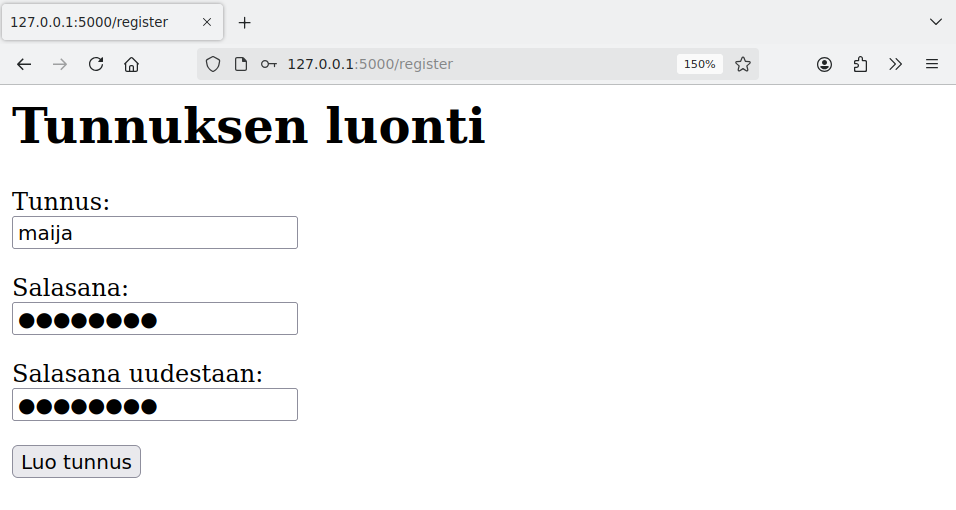
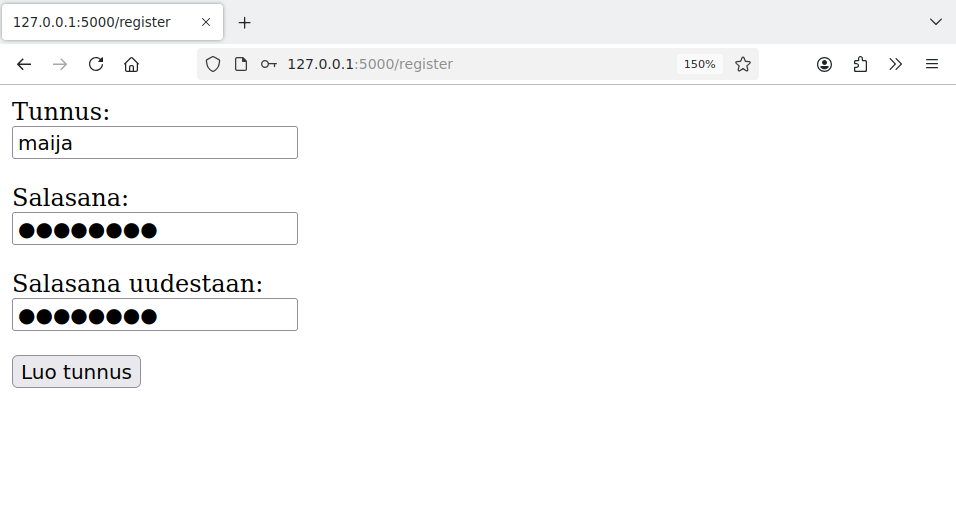
Lisää sisältöä

diff --git a/_material/03.md b/_material/03.md
@@ -3,6 +3,8 @@ title: 3. Käyttäjän tunnistaminen
 slug: osa3
 sections:
 - Tunnuksen luonti
+- Istunnon käyttäminen
+- Kirjautumisen toteutus
 ---
 
 <style>
@@ -18,9 +20,9 @@ img {
 
 # 3. Käyttäjän tunnistaminen
 
-Monissa web-sovelluksissa on tarvetta tunnistaa sovelluksen käyttäjä. Tavallinen ratkaisu on vaatia halutuissa sovelluksen toiminnoissa, että käyttäjä kirjautuu sisään antamalla tunnuksen ja salasanan.
+Monissa web-sovelluksissa on tarvetta tunnistaa sovelluksen käyttäjä. Tavallinen ratkaisu on, että käyttäjä pääsee käyttämään tiettyjä sovelluksen toimintoja, kun hän kirjautuu sisään antamalla tunnuksen ja salasanan.
 
-Tässä osassa käymme läpi, miten voimme toteuttaa sovelluksen niin, että käyttäjä voi luoda tunnuksen ja salasanan sovellukseen ja kirjautua myöhemmin niiden avulla sisään sovellukseen.
+Tutustumme tässä osassa käyttäjien rekisteröinnin ja kirjautumisen toteuttamiseen.
 
 ## Tunnuksen luonti
 
@@ -30,13 +32,13 @@ Luodaan käyttäjiä varten sovelluksen seuraava taulu `users`:
 CREATE TABLE users (
     id INTEGER PRIMARY KEY,
     username TEXT UNIQUE,
-    password TEXT
+    password_hash TEXT
 )
 ```
 
-Taulussa sarakkeet `username` ja `password` sisältävät käyttäjän tunnuksen ja salasanan. Sarakkeessa `username` on lisäehto `UNIQUE`, mikä tarkoittaa, että kahdella käyttäjällä ei voi olla samaa tunnusta.
+Sarake `username` sisältää käyttäjän tunnuksen. Sarakkeessa on lisäehto `UNIQUE`, mikä tarkoittaa, että kahdella käyttäjällä ei voi olla samaa tunnusta.
 
-Käyttäjän salasanan tallentamineen sellaisenaan tietokantaan ei olisi hyvä ratkaisu. Tällöin jos joku pääsisi käsiksi tietokannan sisältöön, hän saisi heti selville käyttäjien salasanat. Parempi ratkaisu on tallentaa salasanat tietokantaan hash-muodossa, jolloin niiden selvittäminen on vaikeampaa.
+Sarake `password_hash` sisältää salasanan hash-arvon. Salasanojen tallentamineen sellaisenaan tietokantaan ei olisi hyvä ratkaisu. Tällöin jos joku pääsisi käsiksi tietokannan sisältöön, hän saisi heti selville käyttäjien salasanat. Parempi ratkaisu on tallentaa salasanat tietokantaan hash-muodossa niin, että tietokannan sisällöstä ei ole helppoa selvittää salasanoja.
 
 Seuraavassa sovelluksessa käyttäjä pystyy luomaan sovellukseen tunnuksen, joka tallennetaan tietokantaan:
 
@@ -64,7 +66,7 @@ def create():
     password_hash = generate_password_hash(password1)
 
     try:
-        db.execute("INSERT INTO users (username, password) VALUES (?, ?)",
+        db.execute("INSERT INTO users (username, password_hash) VALUES (?, ?)",
                    [username, password_hash])
     except:
         return "VIRHE: tunnus on jo varattu"
@@ -75,7 +77,6 @@ def create():
 {: .code-title }
 register.html
 ```jinja
-<h1>Tunnuksen luonti</h2>
 <form action="/create" method="post">
 <p> Tunnus: <br>
 <input type="text" name="username">
@@ -96,7 +97,7 @@ Tunnuksen luonti voi näyttää seuraavalta:
 
 Lomakkeessa käyttäjän tulee kirjoittaa salasana kahdesti, mikä vähentää väärin kirjoitetun salasanan riskiä. Jos käyttäjä antaa kaksi eri salasanaa, sovellus antaa tästä virheilmoituksen.
 
-Koodissa käytetään salasanan hash-arvon luomiseen funktiota `generate_password_hash`, joka kuuluu Flaskin mukana tulevaan Werkzeug-kirjastoon. Tällä tavalla saatu hash-arvo tallennetaan tietokantaan.
+Koodissa käytetään salasanan hash-arvon luomiseen funktiota `generate_password_hash`, joka kuuluu Flaskin mukana tulevaan Werkzeug-kirjastoon. Tämä on turvallinen tapa muodostaa salasanaa vastaava hash-arvo. Tällä tavalla saatu hash-arvo tallennetaan tietokantaan.
 
 Voimme katsoa tietokannasta, miltä salasanan hash-arvo näyttää:
 
@@ -105,22 +106,25 @@ sqlite> SELECT * FROM users;
 1|maija|scrypt:32768:8:1$dZXAZyabb4YyxUnu$aa28f00271ce049f6e59773bee70b4555b3d671c63dcbf9ec3e53c467196df1841f1f232aaf9b05788e73d5692e48707b2112b29a44cd3547cb917701b17fb91
 ```
 
-Tästä näkee, että salasana on tallennettu satunnaiselta näyttävänä merkkijonona. Funktio `generate_password_hash` on toteutettu niin, että salasanan palauttaminen hash-arvon perusteella on vaikeaa.
+Tästä näkee, että salasana on tallennettu satunnaiselta näyttävänä merkkijonona. Funktio `generate_password_hash` on toteutettu niin, että salasanan selvittäminen hash-arvon perusteella on vaikeaa.
 
 Koodi hyödyntää sarakkeessa `username` olevaa `UNIQUE`-ehtoa. Jos käyttäjä koettaa luoda tunnuksen, joka on jo olemassa, tietokanta estää komennon `INSERT` suorittamisen. Koodi tunnistaa tämän tilanteen `try`-rakenteen avulla ja näyttää asiaan liittyvän virheilmoituksen.
 
 ## Istunnon käyttäminen
 
-Flask toteuttaa istunnon `session`-oliona, jonka tiedot tallennetaan selaimelle lähetettävään _evästeeseen_ (_cookie_). Istuntoa voidaan käyttää samaan tapaan kuin sanakirjaa Pythonissa. Seuraava koodi antaa esimerkin asiasta:
+Kun käyttäjä kirjautuu sisään sovellukseen, tieto kirjautumisesta tulisi säilyä sovelluksen eri sivuilla. Tavallinen tapa toteuttaa tämä on käyttää istuntoa, joka on toteutettu Flaskissa `session`-oliona.
+
+Seuraava koodi näyttää esimerkin istunnon käyttämisestä:
 
 {: .code-title }
 app.py
 ```python
 from flask import Flask
 from flask import session
+import config
 
 app = Flask(__name__)
-app.secret_key = "change_this_later"
+app.secret_key = config.secret_key
 
 @app.route("/page1")
 def page1():
@@ -132,7 +136,28 @@ def page2():
     return "Tieto istunnosta: " + session["test"]
 ```
 
-Istunnon käyttäminen vaatii, että sovelluksessa on määritelty salainen avain (`app.secret_key`). Yllä olevassa koodissa on testailua varten väliaikainen salainen avain, jota ei tule käyttää todellisessa sovelluksessa. Palaamme myöhemmin tarkemmin tähän asiaan.
+Istunnon käyttäminen vaatii, että sovelluksessa on määritelty salainen avain (`app.secret_key`). Salaisen avaimen avulla sovellus tallentaa istuntoon liittyvät tiedot turvallisesti käyttäjän selaimeen evästeeseen. Salaisen avaimen tulee olla sovelluksen lähdekoodin ulkopuolella. Tässä asia on ratkaistu niin, että avain on erillisessä tiedostossa `config.py`, joka ei ole julkisesti saatavilla:
+
+{: .code-title }
+config.py
+```python
+secret_key = "18fd24bf6a2ad4dac04a33963db1c42f"
+```
+
+Yllä olevassa tiedostossa oleva avain on esimerkki, eikä sinun ei tule käyttää tätä avainta omassa sovelluksessasi vaan luoda oma salainen avain. Oman salaisen avaimen voi luoda vaikkapa Python-tulkin avulla. Esimerkiksi moduulin `secrets` funktio `token_hex` antaa halutun määrän satunnaisia tavuja:
+
+```console?lang=python&prompt=>>>
+$ python3
+>>> import secrets
+>>> secrets.token_hex(16)
+'39e5b8dd1de7afdc786df2b0cdf7a8f1'
+>>> secrets.token_hex(16)
+'ce22573dcdf9326527536f682ffa3e1c'
+>>> secrets.token_hex(16)
+'4125543709214f084fb171fa541a7ff3'
+```
+
+Voit luoda salaisen avaimen tällä tavalla ja tallentaa sen omaan tiedostoosi `config.py`.
 
 Sovelluksen ideana on, että ensimmäinen sivu asettaa istuntoon muuttujan `test` ja toinen sivu puolestaan näyttää muuttujan sisällön. Tästä näkee, miten tieto säilyy tallessa sivulta toiselle.
 
@@ -140,18 +165,21 @@ Sovelluksen ideana on, että ensimmäinen sivu asettaa istuntoon muuttujan `test
 
 ![](../img/istunto2.png)
 
-
 ### Kirjautumisen toteutus
 
-Seuraava sovellus antaa näytteen kirjautumisen toteuttamisesta:
+Nyt meillä on tarvittavat työkalut, joiden avulla voimme toteuttaa kirjautumisen sovellukseen. Seuraava koodi olettaa, että tietokannassa on tämän osan alussa määritelty taulu `users`. Sovellukseen pystyvät kirjautumaan sisään käyttäjät, jotka ovat luoneet tunnuksen.
 
+{: .code-title }
+app.py
 ```python
 from flask import Flask
 from flask import redirect, render_template, request, session
-from os import getenv
+from werkzeug.security import check_password_hash
+import db
+import config
 
 app = Flask(__name__)
-app.secret_key = getenv("SECRET_KEY")
+app.secret_key = config.secret_key
 
 @app.route("/")
 def index():
@@ -161,9 +189,14 @@ def index():
 def login():
     username = request.form["username"]
     password = request.form["password"]
-    # TODO: check username and password
-    session["username"] = username
-    return redirect("/")
+    
+    password_hash = db.query_one("SELECT password_hash FROM users WHERE username = ?", [username])
+
+    if check_password_hash(password_hash, password):
+        session["username"] = username
+        return redirect("/")
+    else:
+        return "VIRHE: väärä tunnus tai salasana"
 
 @app.route("/logout")
 def logout():
@@ -171,8 +204,10 @@ def logout():
     return redirect("/")
 ```
 
-Sovellus käyttää seuraavaa sivupohjaa `index.html`, joka joko näyttää kirjautumislomakkeen tai kertoo, että käyttäjä on sisällä:
+Sovellus käyttää seuraavaa sivupohjaa, joka joko näyttää kirjautumislomakkeen tai kertoo, että käyttäjä on sisällä:
 
+{: .code-title }
+index.html
 ```jinja
 {% raw %}{% if session.username %}
 <p>Olet kirjautunut nimellä {{ session.username }}</p>
@@ -188,47 +223,11 @@ Sovellus käyttää seuraavaa sivupohjaa `index.html`, joka joko näyttää kirj
 {% endif %}{% endraw %}
 ```
 
+Kun käyttäjä syöttää lomakkeeseen tunnuksen ja salasanan, koodi hakee tietokannasta tunnusta vastaavan salasanan hash-arvon. Tämän jälkeen koodi tarkastaa funktiolla `check_password_hash`, onko salasana oikea. Tämän jälkeen asetetaan istuntoon muuttuja `username`, joka kertoo käyttäjän tunnuksen.
+
 Sovelluksen käyttäminen voi näyttää tältä:
 
-<img class="screenshot" src="../assets/osa-2/login1.png">
+![](../img/login1.png)
 
-<img class="screenshot" src="../assets/osa-2/login2.png">
+![](../img/login2.png)
 
-Katsotaan nyt tarkemmin sovelluksen osia: 
-
-```python
-app.secret_key = getenv("SECRET_KEY")
-```
-
-Tällä rivillä sovellus hakee salaisen avaimen ympäristömuuttujasta `SECRET_KEY`. Istuntoa ei ole mahdollista käyttää ilman salaista avainta.
-
-```jinja
-{% raw %}{% if session.username %}
-<p>Olet kirjautunut nimellä {{ session.username }}</p>
-<a href="/logout">Kirjaudu ulos</a>
-{% else %}{% endraw %}
-```
-
-Sivupohjassa `session`-olioon pääsee käsiksi yllä olevalla syntaksilla. Jos `username` on asetettu, käyttäjä näkee tunnuksensa ja linkin, josta painamalla voi kirjautua ulos. Muuten käyttäjä näkee lomakkeen, jonka avulla voi kirjautua sisään.
-
-
-```python
-@app.route("/login",methods=["POST"])
-def login():
-    username = request.form["username"]
-    password = request.form["password"]
-    # TODO: check username and password
-    session["username"] = username
-    return redirect("/")
-```
-
-Tämä funktio käsittelee kirjautumislomakkeen. Tällä hetkellä funktiosta puuttuu vielä osa (TODO-kohta), joka varmistaa, että käyttäjä antaa oikean tunnuksen ja salasanan. Niinpä sovellus hyväksyy minkä tahansa tunnuksen ja salasanan.
-
-```python
-@app.route("/logout")
-def logout():
-    del session["username"]
-    return redirect("/")
-```
-
-Tämä funktio kirjaa käyttäjän ulos poistamalla `session`-rakenteesta avaimen `username`.

diff --git a/_material/02.md b/_material/02.md
@@ -211,14 +211,17 @@ def query(sql, params=[]):
     
 def query_one(sql, params=[]):
     result = query(sql, params)
-    return result[0]
+    if len(result) == 1:
+        return result[0][0]
+    else:
+        return None
 ```
 
 Funktio `get_connection` muodostaa ja palauttaa yhteyden tietokantaan. Tämän funktion ansiosta tietokantatiedoston nimi riittää kirjoittaa kerran koodissa.
 
 Funktio `execute` on tarkoitettu suorittamaan komento, joka muuttaa tietokantaa (kuten `INSERT`, `UPDATE` tai `DELETE`). Funktio kutsuu metodia `commit`, jolloin muutos viedään pysyvästi tietokantaan. Funktiolle voi antaa parametrina komentoon tulevat parametrit.
 
-Funktio `query` on tarkoitettu suorittamaan tietoa hakeva `SELECT`-komento. Funktio hakee kaikki tulosrivit metodilla `fetchall` ja palauttaa ne. Lisäksi funktion `query_one` avulla kyselyn tuloksen saa haettua mukavammassa muodossa, kun kyselyssä on aina tasan yksi tulosrivi (kuten kysely muotoa `SELECT COUNT(*)`).
+Funktio `query` on tarkoitettu suorittamaan tietoa hakeva `SELECT`-komento. Funktio hakee kaikki tulosrivit metodilla `fetchall` ja palauttaa ne. Lisäksi funktion `query_one` avulla kyselyn tuloksen saa haettua mukavammassa muodossa, kun kyselyn tulos on yksittäinen arvo (kuten kysely muotoa `SELECT COUNT(*)`).
 
 Katsotaan seuraavaksi, miten voimme toteuttaa tämän luvun aiemmat esimerkit uudestaan moduulin `db.py` avulla. Käytämme materiaalissa jatkossa moduulia `db.py` tietokannan käsittelyyn.
 
@@ -238,7 +241,7 @@ app = Flask(__name__)
 def index():
     db.execute("INSERT INTO visits (visited_at) VALUES (datetime('now'))")
     count = db.query_one("SELECT COUNT(*) FROM visits")
-    return "Sivua on ladattu " + str(count[0]) + " kertaa"
+    return "Sivua on ladattu " + str(count) + " kertaa"
 ```
 
 ### Keskustelualue
